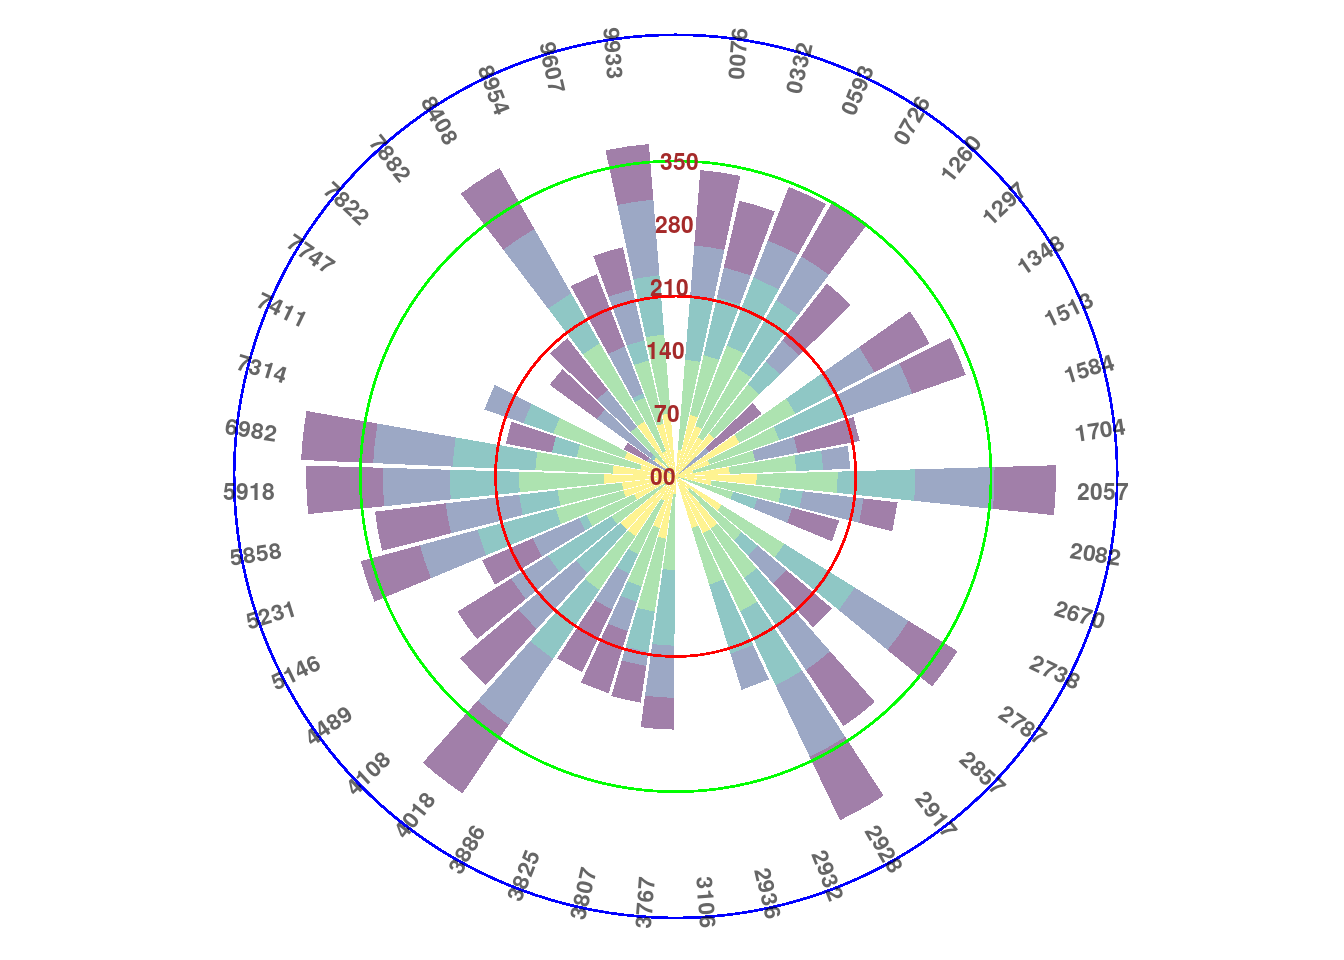
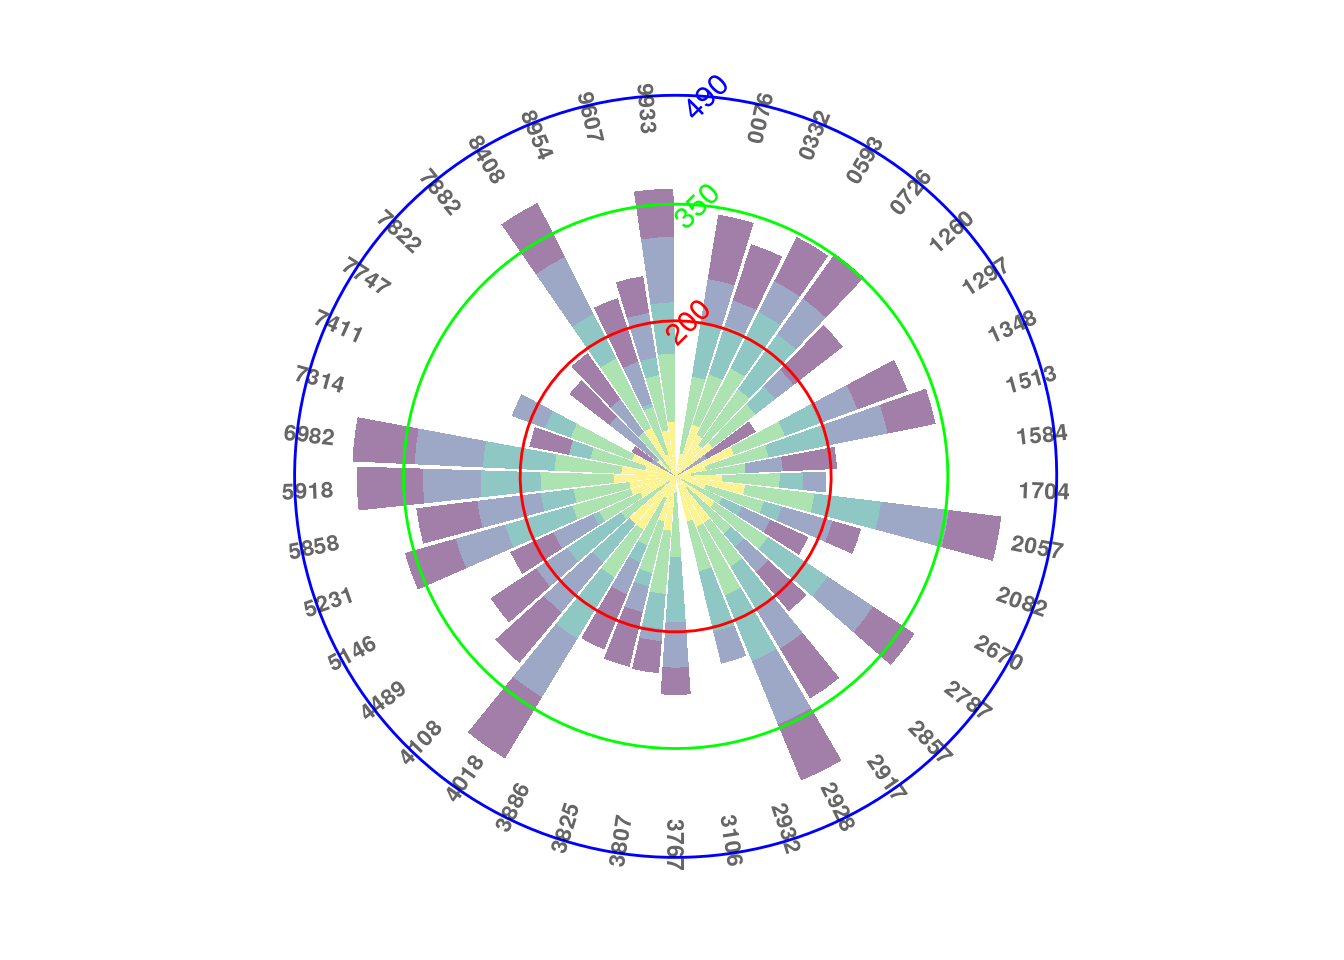
update figs for notas, add option for non polar coordinates

diff --git a/docs/notas.html b/docs/notas.html
@@ -627,7 +627,8 @@ kable(mb, row.names = FALSE)</code></pre>
 </tr>
 </tbody>
 </table>
-<pre class="r"><code>data1 &lt;- mb
+<pre class="r"><code>data1 &lt;- rbind(mb[which(rowSums(!is.na(mb[,2:ncol(mb)]))&gt;0),], 
+               data.frame(Matrícula=&#39;&#39;, mb[1,-1]*0))
 ns &lt;- ncol(data1)-1
 na &lt;- nrow(data1)
 data1$Total &lt;- rowSums(data1[,2:(ns+1)], na.rm=TRUE)
@@ -643,22 +644,23 @@ p = ggplot(data) +
   # Add the stacked bar
   geom_bar(aes(x=as.factor(Aluno), y=Nota, fill=Etapa), stat=&quot;identity&quot;, alpha=0.5) +
   scale_fill_viridis(discrete=TRUE) +
-  geom_segment(aes(x = 0, y = 7*70, xend = na+1, yend = 7*70), colour = &quot;blue&quot;, alpha=1, size=0.3 , inherit.aes = FALSE ) + ### numero necessario de pontos em 7 sabatinas
-  geom_segment(aes(x = 0, y = ns*70, xend = na+1, yend = ns*70), colour = &quot;green&quot;, alpha=1, size=0.3 , inherit.aes = FALSE ) + ### linha na media igual 70
-  geom_segment(aes(x = 0, y = ns*40, xend = na+1, yend = ns*40), colour = &quot;red&quot;, alpha=1, size=0.3 , inherit.aes = FALSE ) + ### linha na media igual 40
-  annotate(&quot;text&quot;, x = rep(1/2, ns+1), y = 70*0:ns, label = sprintf(&#39;%02d&#39;, 70*0:ns) , color=&quot;brown&quot;, size=3 , angle=0, fontface=&quot;bold&quot;, hjust=1) +
+  ##geom_abline(slope=0, intercept=0:ns*70, col=c(&#39;gray&#39;))+
+  geom_abline(slope=0, intercept=c(ns*c(40,70), 7*70), col=c(&#39;red&#39;, &#39;green&#39;, &#39;blue&#39;))+
+##  annotate(&quot;text&quot;, x = rep(1.5, ns+1), y = 70*0:ns, label = sprintf(&#39;%02d&#39;, 70*0:ns) , color=&quot;brown&quot;, size=3, hjust=1, angle=45) +
+  annotate(&quot;text&quot;, x = 1, y = c(ns*c(40,70), 7*70), label = sprintf(&#39;%02d&#39;, c(ns*c(40,70), 7*70)), color=c(&#39;red&#39;,&#39;green&#39;,&#39;blue&#39;), size=4 , angle=45, hjust=0.5) +
   theme_minimal() +
   theme(
     legend.position = &quot;none&quot;,
     axis.text = element_blank(),
     axis.title = element_blank(),
     panel.grid = element_blank(),
-    plot.margin = unit(rep(-1,4), &quot;cm&quot;) 
+    plot.margin = unit(rep(0,4), &quot;cm&quot;) 
   ) +
   geom_text(data=data1, aes(x=Aluno, y=max(data1$Total)+50, label=Aluno), color=&quot;black&quot;, fontface=&quot;bold&quot;,alpha=0.6, size=3, angle=data1$angle, inherit.aes = FALSE ) +
   coord_polar()  
+  ##geom_text(data=data1, aes(x=Aluno, y=max(data1$Total)+15, label=Aluno), color=&quot;black&quot;, fontface=&quot;bold&quot;,alpha=0.6, size=4, inherit.aes = FALSE, angle=90) 
 p
-Warning: Removed 29 rows containing missing values (position_stack).</code></pre>
+Warning: Removed 23 rows containing missing values (position_stack).</code></pre>
 <p><img src="figures/plotmb-1.png" width="100%" style="display: block; margin: auto;" /></p>
 </div>
 <div id="ce001-n" class="section level3">
@@ -1020,7 +1022,8 @@ kable(n, row.names = FALSE)</code></pre>
 </tr>
 </tbody>
 </table>
-<pre class="r"><code>data1 &lt;- n
+<pre class="r"><code>data1 &lt;- rbind(n[which(rowSums(!is.na(n[,2:ncol(n)]))&gt;0),], 
+               data.frame(Matrícula=&#39;&#39;, n[1,-1]*0))
 ns &lt;- ncol(data1)-1
 na &lt;- nrow(data1)
 data1$Total &lt;- rowSums(data1[,2:(ns+1)], na.rm=TRUE)
@@ -1036,23 +1039,21 @@ p = ggplot(data) +
   # Add the stacked bar
   geom_bar(aes(x=as.factor(Aluno), y=Nota, fill=Etapa), stat=&quot;identity&quot;, alpha=0.5) +
   scale_fill_viridis(discrete=TRUE) +
-  geom_segment(aes(x = 0, y = 7*70, xend = na+1, yend = 7*70), colour = &quot;blue&quot;, alpha=1, size=0.3 , inherit.aes = FALSE ) + ### numero necessario de pontos em 7 sabatinas
-  geom_segment(aes(x = 0, y = ns*70, xend = na+1, yend = ns*70), colour = &quot;green&quot;, alpha=1, size=0.3 , inherit.aes = FALSE ) + ### linha na media igual 70
-  geom_segment(aes(x = 0, y = ns*40, xend = na+1, yend = ns*40), colour = &quot;red&quot;, alpha=1, size=0.3 , inherit.aes = FALSE ) + ### linha na media igual 40
-  annotate(&quot;text&quot;, x = rep(1/2, ns+1), y = 70*0:ns, label = sprintf(&#39;%02d&#39;, 70*0:ns) , color=&quot;brown&quot;, size=3 , angle=0, fontface=&quot;bold&quot;, hjust=1) +
+  ##geom_abline(slope=0, intercept=0:ns*70, col=c(&#39;gray&#39;))+
+  geom_abline(slope=0, intercept=c(ns*c(40,70), 7*70), col=c(&#39;red&#39;, &#39;green&#39;, &#39;blue&#39;))+
+##  annotate(&quot;text&quot;, x = rep(1.5, ns+1), y = 70*0:ns, label = sprintf(&#39;%02d&#39;, 70*0:ns) , color=&quot;brown&quot;, size=3, hjust=1, angle=45) +
+  annotate(&quot;text&quot;, x = 1, y = c(ns*c(40,70), 7*70), label = sprintf(&#39;%02d&#39;, c(ns*c(40,70), 7*70)), color=c(&#39;red&#39;,&#39;green&#39;,&#39;blue&#39;), size=4 , angle=45, hjust=0.5) +
   theme_minimal() +
   theme(
     legend.position = &quot;none&quot;,
     axis.text = element_blank(),
     axis.title = element_blank(),
     panel.grid = element_blank(),
-    plot.margin = unit(rep(-1,4), &quot;cm&quot;) 
+    plot.margin = unit(rep(0,4), &quot;cm&quot;) 
   ) +
   geom_text(data=data1, aes(x=Aluno, y=max(data1$Total)+50, label=Aluno), color=&quot;black&quot;, fontface=&quot;bold&quot;,alpha=0.6, size=3, angle=data1$angle, inherit.aes = FALSE ) +
   coord_polar()  
-p
-Warning: Removed 27 rows containing missing values (position_stack).</code></pre>
-<p><img src="figures/plotn-1.png" width="100%" style="display: block; margin: auto;" /></p>
+  ##geom_text(data=data1, aes(x=Aluno, y=max(data1$Total)+15, label=Aluno), color=&quot;black&quot;, fontface=&quot;bold&quot;,alpha=0.6, size=4, inherit.aes = FALSE, angle=90) </code></pre>
 </div>
 <div id="ce003-mn" class="section level3">
 <h3>CE003-MN</h3>
@@ -1329,7 +1330,8 @@ kable(mn, row.names = FALSE)</code></pre>
 </tr>
 </tbody>
 </table>
-<pre class="r"><code>data1 &lt;- mn
+<pre class="r"><code>data1 &lt;- rbind(mn[which(rowSums(!is.na(mn[,2:ncol(mn)]))&gt;0),], 
+               data.frame(Matrícula=&#39;&#39;, mn[1,-1]*0))
 ns &lt;- ncol(data1)-1
 na &lt;- nrow(data1)
 data1$Total &lt;- rowSums(data1[,2:(ns+1)], na.rm=TRUE)
@@ -1345,23 +1347,21 @@ p = ggplot(data) +
   # Add the stacked bar
   geom_bar(aes(x=as.factor(Aluno), y=Nota, fill=Etapa), stat=&quot;identity&quot;, alpha=0.5) +
   scale_fill_viridis(discrete=TRUE) +
-  geom_segment(aes(x = 0, y = 7*70, xend = na+1, yend = 7*70), colour = &quot;blue&quot;, alpha=1, size=0.3 , inherit.aes = FALSE ) + ### numero necessario de pontos em 7 sabatinas
-  geom_segment(aes(x = 0, y = ns*70, xend = na+1, yend = ns*70), colour = &quot;green&quot;, alpha=1, size=0.3 , inherit.aes = FALSE ) + ### linha na media igual 70
-  geom_segment(aes(x = 0, y = ns*40, xend = na+1, yend = ns*40), colour = &quot;red&quot;, alpha=1, size=0.3 , inherit.aes = FALSE ) + ### linha na media igual 40
-  annotate(&quot;text&quot;, x = rep(1/2, ns+1), y = 70*0:ns, label = sprintf(&#39;%02d&#39;, 70*0:ns) , color=&quot;brown&quot;, size=3 , angle=0, fontface=&quot;bold&quot;, hjust=1) +
+  ##geom_abline(slope=0, intercept=0:ns*70, col=c(&#39;gray&#39;))+
+  geom_abline(slope=0, intercept=c(ns*c(40,70), 7*70), col=c(&#39;red&#39;, &#39;green&#39;, &#39;blue&#39;))+
+##  annotate(&quot;text&quot;, x = rep(1.5, ns+1), y = 70*0:ns, label = sprintf(&#39;%02d&#39;, 70*0:ns) , color=&quot;brown&quot;, size=3, hjust=1, angle=45) +
+  annotate(&quot;text&quot;, x = 1, y = c(ns*c(40,70), 7*70), label = sprintf(&#39;%02d&#39;, c(ns*c(40,70), 7*70)), color=c(&#39;red&#39;,&#39;green&#39;,&#39;blue&#39;), size=4 , angle=45, hjust=0.5) +
   theme_minimal() +
   theme(
     legend.position = &quot;none&quot;,
     axis.text = element_blank(),
     axis.title = element_blank(),
     panel.grid = element_blank(),
-    plot.margin = unit(rep(-1,4), &quot;cm&quot;) 
+    plot.margin = unit(rep(0,4), &quot;cm&quot;) 
   ) +
   geom_text(data=data1, aes(x=Aluno, y=max(data1$Total)+50, label=Aluno), color=&quot;black&quot;, fontface=&quot;bold&quot;,alpha=0.6, size=3, angle=data1$angle, inherit.aes = FALSE ) +
   coord_polar()  
-p
-Warning: Removed 55 rows containing missing values (position_stack).</code></pre>
-<p><img src="figures/plotmn-1.png" width="100%" style="display: block; margin: auto;" /></p>
+  ##geom_text(data=data1, aes(x=Aluno, y=max(data1$Total)+15, label=Aluno), color=&quot;black&quot;, fontface=&quot;bold&quot;,alpha=0.6, size=4, inherit.aes = FALSE, angle=90) </code></pre>
 </div>
 </div>
 
